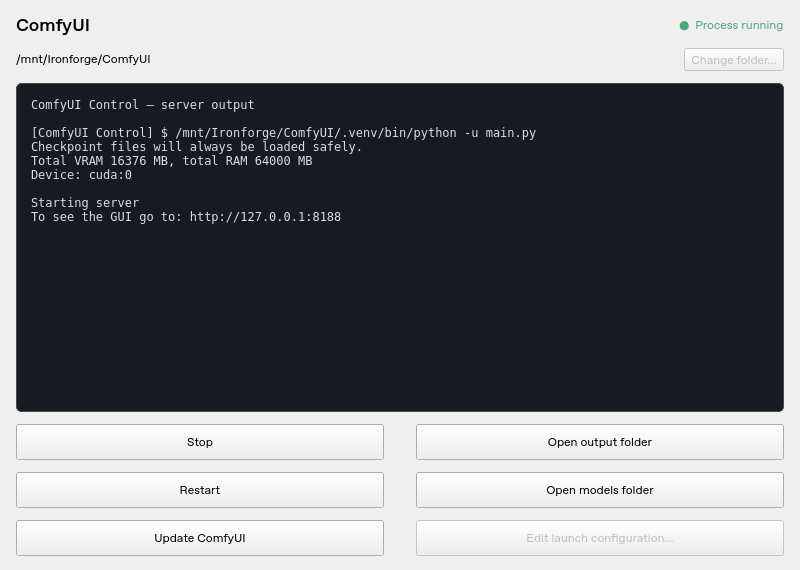
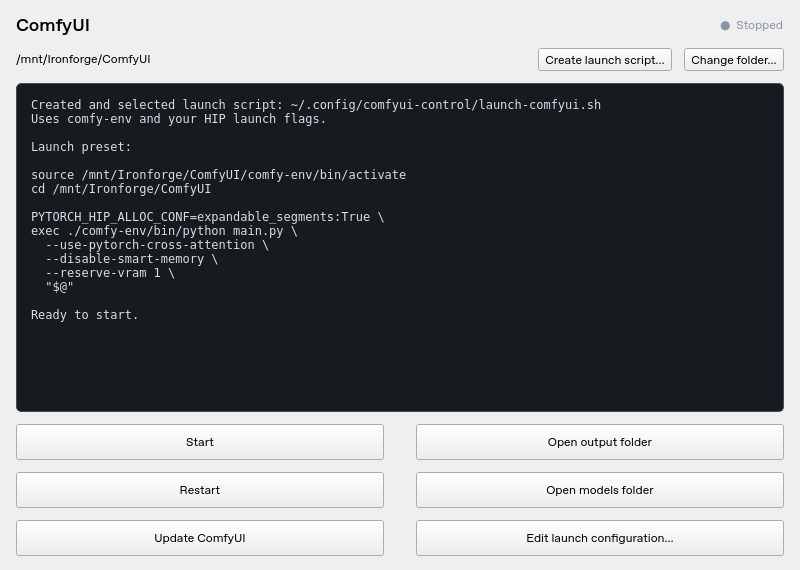
Add launch script creation with HIP preset

diff --git a/comfyui_control/app.py b/comfyui_control/app.py
@@ -1,4 +1,6 @@
 """Native Qt Widgets interface. The output pane is a read-only log viewer."""
+from dataclasses import replace
+from pathlib import Path
 import re
 import shutil
 import sys
@@ -13,6 +15,7 @@ from PySide6.QtWidgets import (
 
 from .config import Config, config_path, expand
 from .controller import Controller
+from .launch_script import create_launch_script
 
 
 class SettingsDialog(QDialog):
@@ -190,6 +193,10 @@ class MainWindow(QMainWindow):
         self.path_label.setTextInteractionFlags(Qt.TextInteractionFlag.TextSelectableByMouse)
         self.path_label.setWordWrap(True)
         path_row.addWidget(self.path_label, 1)
+        self.create_script_button = QPushButton("Create launch script…")
+        self.create_script_button.setToolTip("Create a Bash script using comfy-env and your HIP launch flags.")
+        self.create_script_button.clicked.connect(self._create_script)
+        path_row.addWidget(self.create_script_button)
         self.change_folder = QPushButton("Change folder…")
         self.change_folder.clicked.connect(self._choose_folder)
         path_row.addWidget(self.change_folder)
@@ -255,6 +262,47 @@ class MainWindow(QMainWindow):
         self.path_label.setText(config.comfy_dir)
         self.path_label.setToolTip(str(config.directory))
 
+    def _create_script(self):
+        config = self.controller.config
+        if not (config.directory / "main.py").is_file():
+            QMessageBox.warning(self, "Choose ComfyUI folder", "Choose the ComfyUI folder containing main.py first.")
+            return
+        # Keep personal scripts outside the Git checkout so updates stay clean.
+        default = config_path().parent / "launch-comfyui.sh"
+        path, _ = QFileDialog.getSaveFileName(
+            self, "Create a new launch script", str(default),
+            "Shell scripts (*.sh);;All files (*)",
+            options=QFileDialog.Option.DontConfirmOverwrite,
+        )
+        if not path:
+            return
+        destination = Path(path)
+        if not destination.suffix:
+            destination = destination.with_suffix(".sh")
+        try:
+            create_launch_script(config.directory, destination)
+        except FileExistsError:
+            QMessageBox.warning(self, "Script already exists", "Choose a new filename. Existing launch scripts are not overwritten.")
+            return
+        except (ValueError, OSError) as exc:
+            QMessageBox.warning(self, "Could not create script", str(exc))
+            return
+        updated = replace(
+            config, mode="script", script=str(destination), arguments="",
+            python=str(config.directory / "comfy-env" / "bin" / "python"),
+        )
+        try:
+            updated.save()
+        except OSError as exc:
+            QMessageBox.warning(self, "Could not save launch settings", f"The script was created at {destination}, but could not be selected:\n{exc}")
+            return
+        self._set_config(updated)
+        self.log.append_output(
+            f"\nCreated and selected launch script: {destination}\n"
+            "Uses comfy-env and your HIP launch flags. Additional launch arguments were cleared.\n"
+            "Use Edit launch configuration → Edit launch script to change its flags.\n"
+        )
+
     def _settings(self):
         dialog = SettingsDialog(self.controller.config, self)
         if dialog.exec() == QDialog.DialogCode.Accepted:
@@ -280,6 +328,7 @@ class MainWindow(QMainWindow):
         self.update.setEnabled((idle or active) and not self._closing)
         self.config_button.setEnabled(idle and not self._closing)
         self.change_folder.setEnabled(idle and not self._closing)
+        self.create_script_button.setEnabled(idle and not self._closing)
         if self._closing and idle:
             QTimer.singleShot(0, self.close)
 

diff --git a/tests/test_ui.py b/tests/test_ui.py
@@ -25,9 +25,11 @@ def test_control_states_and_native_folder_open(app, tmp_path):
     window = MainWindow(Config(comfy_dir=str(tmp_path)))
     assert window.start_stop.text() == "Start"
     assert window.change_folder.isEnabled()
+    assert window.create_script_button.isEnabled()
     window._state_changed("running")
     assert window.start_stop.text() == "Stop"
     assert not window.change_folder.isEnabled()
+    assert not window.create_script_button.isEnabled()
     assert not window.config_button.isEnabled()
     window._state_changed("updating")
     assert not window.start_stop.isEnabled()
@@ -71,3 +73,50 @@ def test_close_waits_for_owned_process(app):
         assert window._closing
     window.controller.state = "stopped"
     assert window.close()
+
+
+def test_create_script_selects_preset_and_persists_config(app, tmp_path, monkeypatch):
+    monkeypatch.setenv("XDG_CONFIG_HOME", str(tmp_path / "settings"))
+    (tmp_path / "main.py").touch()
+    original = Config(comfy_dir=str(tmp_path), arguments="--reserve-vram 7", output_dir="/custom/output")
+    original.save()
+    window = MainWindow(original)
+    destination = tmp_path / "launch file"
+    with patch("comfyui_control.app.QFileDialog.getSaveFileName", return_value=(str(destination), "")):
+        window._create_script()
+    script = destination.with_suffix(".sh")
+    saved = Config.load()
+    assert script.is_file()
+    assert saved.mode == "script"
+    assert saved.script == str(script)
+    assert saved.python == str(tmp_path / "comfy-env" / "bin" / "python")
+    assert saved.arguments == ""
+    assert saved.output_dir == "/custom/output"
+    assert window.controller.config == saved
+    assert saved.command() == ["/bin/bash", str(script)]
+    window.close()
+
+
+def test_cancel_script_creation_leaves_settings_unchanged(app, tmp_path):
+    (tmp_path / "main.py").touch()
+    original = Config(comfy_dir=str(tmp_path), arguments="--port 9999")
+    window = MainWindow(original)
+    with patch("comfyui_control.app.QFileDialog.getSaveFileName", return_value=("", "")):
+        window._create_script()
+    assert window.controller.config == original
+    assert list(tmp_path.iterdir()) == [tmp_path / "main.py"]
+    window.close()
+
+
+def test_create_script_collision_preserves_settings(app, tmp_path):
+    (tmp_path / "main.py").touch()
+    destination = tmp_path / "launch.sh"
+    destination.write_text("existing script")
+    original = Config(comfy_dir=str(tmp_path), arguments="--port 9999")
+    window = MainWindow(original)
+    with patch("comfyui_control.app.QFileDialog.getSaveFileName", return_value=(str(destination), "")), patch("comfyui_control.app.QMessageBox.warning") as warning:
+        window._create_script()
+    warning.assert_called_once()
+    assert destination.read_text() == "existing script"
+    assert window.controller.config == original
+    window.close()

diff --git a/tests/test_launch_script.py b/tests/test_launch_script.py
@@ -1,0 +1,70 @@
+import json
+import os
+import shlex
+import subprocess
+import sys
+
+import pytest
+
+from comfyui_control.launch_script import create_launch_script
+
+
+def test_generated_script_activates_venv_and_passes_exact_preset(tmp_path):
+    directory = tmp_path / "ComfyUI with 'quotes' $dollars `backticks`"
+    bin_dir = directory / "comfy-env" / "bin"
+    bin_dir.mkdir(parents=True)
+    (directory / "main.py").touch()
+    # A stand-in environment records what the launched interpreter receives.
+    (bin_dir / "activate").write_text("export ACTIVATION_MARKER=activated\n")
+    interpreter = bin_dir / "python"
+    interpreter.write_text(
+        f"#!{sys.executable}\n"
+        "import json, os, sys\n"
+        "print(json.dumps({'cwd': os.getcwd(), 'activated': os.environ.get('ACTIVATION_MARKER'), "
+        "'hip': os.environ.get('PYTORCH_HIP_ALLOC_CONF'), 'args': sys.argv[1:]}))\n"
+    )
+    interpreter.chmod(0o700)
+    destination = tmp_path / "launch script.sh"
+    create_launch_script(directory, destination)
+    subprocess.run(["bash", "-n", str(destination)], check=True)
+    result = subprocess.run(
+        [str(destination), "--output-directory", "a path with spaces"],
+        cwd=tmp_path, check=True, text=True, capture_output=True,
+    )
+    recorded = json.loads(result.stdout)
+    assert recorded == {
+        "cwd": str(directory), "activated": "activated",
+        "hip": "expandable_segments:True",
+        "args": ["main.py", "--use-pytorch-cross-attention", "--disable-smart-memory",
+                 "--reserve-vram", "1", "--output-directory", "a path with spaces"],
+    }
+    assert os.access(destination, os.X_OK)
+
+
+@pytest.mark.parametrize("symlink", [False, True])
+def test_existing_script_is_not_overwritten(tmp_path, symlink):
+    (tmp_path / "main.py").touch()
+    original = tmp_path / "original.sh"
+    original.write_text("my existing launch script\n")
+    destination = tmp_path / "launch.sh" if symlink else original
+    if symlink:
+        destination.symlink_to(original)
+    with pytest.raises(FileExistsError):
+        create_launch_script(tmp_path, destination)
+    assert original.read_text() == "my existing launch script\n"
+
+
+def test_activation_failure_does_not_launch_server(tmp_path):
+    (tmp_path / "main.py").touch()
+    bin_dir = tmp_path / "comfy-env" / "bin"
+    bin_dir.mkdir(parents=True)
+    marker = tmp_path / "server-started"
+    (bin_dir / "activate").write_text("return 1\n")
+    interpreter = bin_dir / "python"
+    interpreter.write_text(f"#!/bin/sh\ntouch {shlex.quote(str(marker))}\n")
+    interpreter.chmod(0o700)
+    destination = tmp_path / "launch.sh"
+    create_launch_script(tmp_path, destination)
+    result = subprocess.run(["bash", str(destination)], capture_output=True)
+    assert result.returncode != 0
+    assert not marker.exists()

diff --git a/comfyui_control/launch_script.py b/comfyui_control/launch_script.py
@@ -1,0 +1,27 @@
+"""Generate the user's HIP launch preset without replacing existing scripts."""
+import os
+from pathlib import Path
+import shlex
+
+
+def create_launch_script(directory: Path, destination: Path) -> None:
+    directory = directory.absolute()
+    if not (directory / "main.py").is_file():
+        raise ValueError("Choose the ComfyUI folder containing main.py first.")
+    content = (
+        "#!/usr/bin/env bash\n"
+        "set -e\n\n"
+        f"COMFYUI_DIR={shlex.quote(str(directory))}\n"
+        'source "$COMFYUI_DIR/comfy-env/bin/activate"\n'
+        'cd -- "$COMFYUI_DIR"\n\n'
+        "PYTORCH_HIP_ALLOC_CONF=expandable_segments:True \\\n"
+        "exec ./comfy-env/bin/python main.py \\\n"
+        "  --use-pytorch-cross-attention \\\n"
+        "  --disable-smart-memory \\\n"
+        "  --reserve-vram 1 \\\n"
+        '  "$@"\n'
+    )
+    # Exclusive creation also protects existing scripts and symlink targets.
+    with destination.open("x", encoding="utf-8") as stream:
+        os.fchmod(stream.fileno(), 0o700)
+        stream.write(content)

diff --git a/README.md b/README.md
@@ -43,6 +43,22 @@ exec .venv/bin/python -u main.py --listen 127.0.0.1 --port 8188 "$@"
 
 Keep your existing environment activation and flags if you already have them. `exec` helps the controller track the server; avoid backgrounding or daemonizing it. Stopping also signals child processes in the controller's process group.
 
+### Create a launch script
+
+The small **Create launch script…** button beside the installation path saves an executable `.sh` file and selects it as the launch method. The generated script activates `comfy-env` inside your selected ComfyUI folder, changes into that folder, sets `PYTORCH_HIP_ALLOC_CONF=expandable_segments:True`, then runs:
+
+```bash
+exec ./comfy-env/bin/python main.py \
+  --use-pytorch-cross-attention \
+  --disable-smart-memory \
+  --reserve-vram 1 \
+  "$@"
+```
+
+The `comfy-env` environment must already exist; the button creates the script, not the environment. Folder paths containing spaces or shell characters are quoted safely. `exec` keeps Start/Stop and Restart in control of the Python server. Additional arguments can be added in the configuration dialog.
+
+By default the script is saved next to the application's settings, outside the ComfyUI checkout, so it does not introduce an untracked file that blocks Update. You can choose another location and filename. Existing scripts are not overwritten. Creating a script clears any previously configured additional launch arguments and selects `comfy-env/bin/python` for optional dependency updates. Use **Edit launch configuration… → Edit launch script…** to edit the generated flags later.
+
 The settings are stored in `~/.config/comfyui-control/config.json` (or `$XDG_CONFIG_HOME/comfyui-control/config.json`). Settings can be edited while stopped. Changing installation folders resets the interpreter, script, arguments, and custom folder paths, so configure the new installation before starting it.
 
 Output and models buttons use the installation's `output` and `models` subfolders. If your flags or scripts relocate these folders, set the corresponding custom paths in the configuration dialog too. These custom paths control the folder buttons; they do not change ComfyUI's flags.
